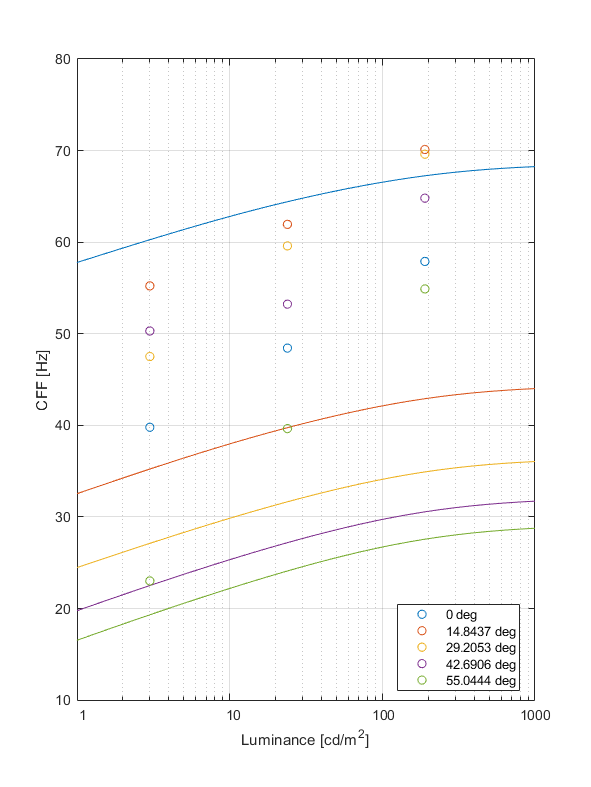
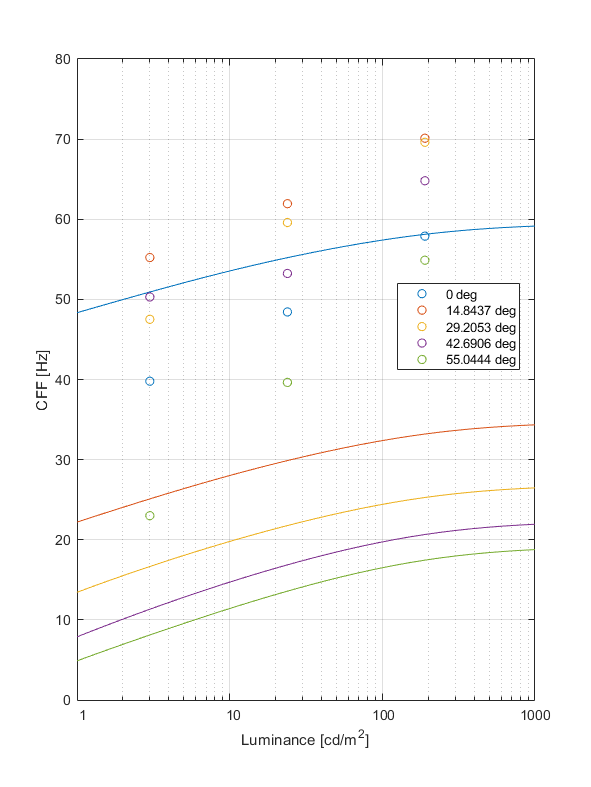
share latest fits

diff --git a/share/st_temp_ecc/index.html b/share/st_temp_ecc/index.html
@@ -13,15 +13,15 @@ function detectLeftButton(evt) {
 
 <body>
 <h1>CSF model fit: st_temp_ecc</h1>
-<p>Report generated on 22-Oct-2021 17:13:12</p>
+<p>Report generated on 05-Nov-2021 15:50:53</p>
 <h2>Fitting error</h2>
 <TABLE>
-<tr><td rowspan="2">Dataset</td><td colspan="1">Fitting error</td><td colspan="1">Sensitivity adjustment</td></tr><tr><td>CSF from FovVideoVDP</td><td>CSF from FovVideoVDP</td></tr><tr><td>Average</td><td>10.8199 [dB]</td><td>N/A</td></tr><tr><td>modelfest</td><td>1.26835 [dB]</td><td>1</td></tr><tr><td>hdrvdp_csf</td><td>0.953681 [dB]</td><td>0.89546</td></tr><tr><td>laird2006</td><td>2.9722 [dB]</td><td>0.976916</td></tr><tr><td>virsu1979</td><td>3.86498 [dB]</td><td>0.945991</td></tr><tr><td>krajancich2021</td><td>40.8342 [dB]</td><td>1.2464</td></tr></TABLE>
+<tr><td rowspan="2">Dataset</td><td colspan="1">Fitting error</td><td colspan="1">Sensitivity adjustment</td></tr><tr><td>CSF from FovVideoVDP</td><td>CSF from FovVideoVDP</td></tr><tr><td>Average</td><td>12.2943 [dB]</td><td>N/A</td></tr><tr><td>modelfest</td><td>3.61836 [dB]</td><td>1</td></tr><tr><td>hdrvdp_csf</td><td>3.51612 [dB]</td><td>1.20125</td></tr><tr><td>laird2006</td><td>3.20714 [dB]</td><td>1.01452</td></tr><tr><td>virsu1979</td><td>6.40901 [dB]</td><td>1.07211</td></tr><tr><td>krajancich2021</td><td>62.0913 [dB]</td><td>1.31448</td></tr><tr><td>robson1966</td><td>4.94311 [dB]</td><td>1.05975</td></tr><tr><td>kelly1979</td><td>10.9881 [dB]</td><td>0.531983</td></tr></TABLE>
 <h2>Model parameters</h2>
 <div class="params_frame">
 <div align="center">CSF from FovVideoVDP</div>
 <div style="white-space: pre-line;">
-	p.S_0 = 3.27384;
+	p.S_0 = 0.743997;
 </div>
 </div>
 <h2>Legend</h2>
@@ -54,6 +54,20 @@ function detectLeftButton(evt) {
 <br/></div>
 <div>Critical fusion frequency for spatial frequencies<br/>
 <img src="fig_krajancich2021_3.png"/>
+<br/></div>
+<h2 id="robson1966"><a class="top_align_button" href="#robson1966">&#8632;</a>Dataset: Spatial and Temporal Contrast-Sensitivity Functions of the Visual System</h2>
+<div>Spatial CSF for different temporal frequencies<br/>
+<img src="fig_robson1966_1.png"/>
+<br/></div>
+<div>Temporal CSF for different spatial frequencies<br/>
+<img src="fig_robson1966_2.png"/>
+<br/></div>
+<h2 id="kelly1979"><a class="top_align_button" href="#kelly1979">&#8632;</a>Dataset: Motion and vision. II. Stabilized spatio-temporal threshold surface</h2>
+<div>Spatial CSF for different temporal frequencies<br/>
+<img src="fig_kelly1979_1.png"/>
+<br/></div>
+<div>Temporal CSF for different spatial frequencies<br/>
+<img src="fig_kelly1979_2.png"/>
 <br/></div>
 </body>
 </html>
